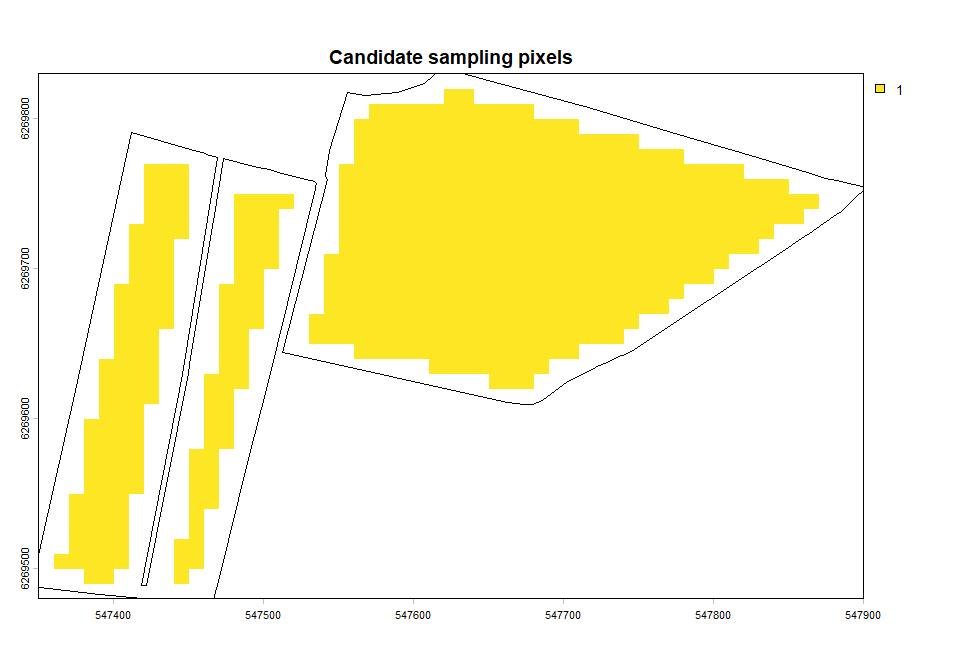
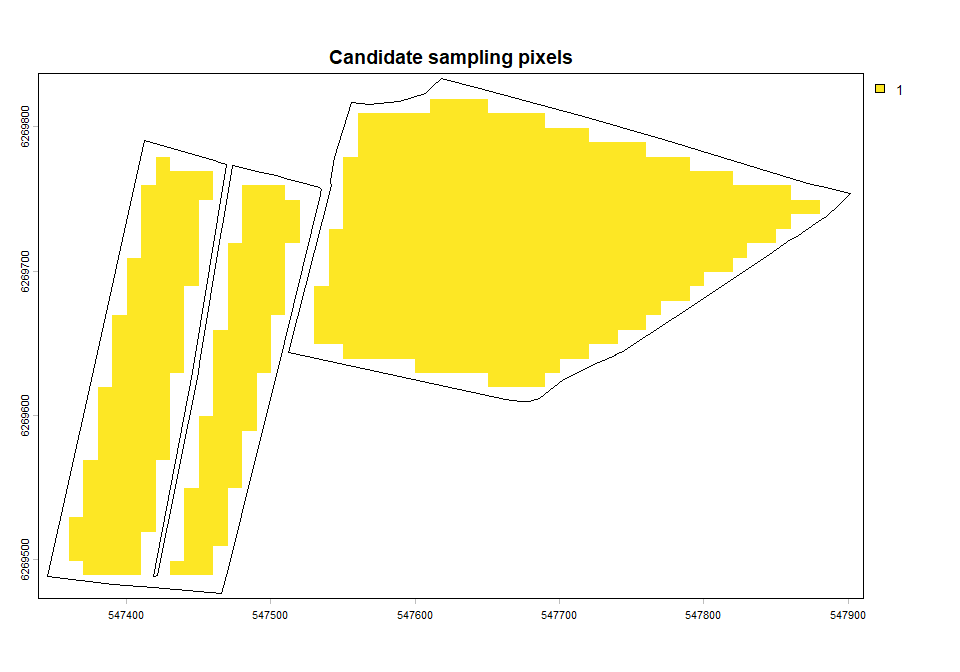
Refine Candidate Sampling Pixel Logic and Explanation

diff --git a/ranked_samples_workflow.md b/ranked_samples_workflow.md
@@ -179,38 +179,49 @@ candidates_field <- ifel(
   NA,
   1
 ) |>
-  focal(w = 3, "mean") |>
   mask(
-    study_areas[study_area_idx, ] |> as.lines(),
-    inverse = TRUE
-  )
+    study_areas[study_area_idx, ] |>
+      buffer(width = -10),
+    touches = FALSE
+)
 
-plot(candidates_field, main = "Candidate sampling pixels")
+plot(
+  candidates_field, main = "Candidate sampling pixels",
+  extent = study_areas[study_area_idx, ],
+  buffer = TRUE
+)
 plot(study_areas[study_area_idx, ], add = TRUE)
 ```
 
 <img src="ranked_samples_workflow_files/figure-html/candidates-1.png" alt="" width="60%" style="display: block; margin: auto;" />
 
-The candidate mask avoids border effects and excludes unsuitable edge cells.
-
 ## 5. Primary Cluster Sampling
+
+The sampling zones and primary sampling locations are generated based on k-means clustering, using the package `samplekmeans`. The number of clusters is determined by the size of the study area, with one cluster per ha (rounded off).
+
+The parameter `xy_weight` is set to 2, which means that the spatial coordinates are weighted twice as much as the input raster values. This encourages clusters to be more spatially compact, while still considering the input raster values. The `candidates` parameter ensures that only valid sampling locations are selected, and the `min_cluster_size` parameter ensures that clusters with fewer than 50 pixels (i.e. areas less than 0.5 ha) are not produced.
 
 
 ``` r
 myclusters <- sample_kmeans(
   input = sampling_input_pctile,
-  clusters = round(study_areas[study_area_idx, ]$Shape_Area / 10000),
+  clusters = round(
+    study_areas[study_area_idx, ]$Shape_Area * sampling_zones_ha / 10000
+  ),
   use_xy = TRUE,
   sp_pts = TRUE,
   xy_weight = 2,
   candidates = candidates_field,
-  min_cluster_size = 50
+  min_cluster_size = 50,
+  seed = 5082
 )
 
 plot(
   as.factor(myclusters$clusters),
   col = carto_pal(9, "Bold"),
-  main = "Primary clusters"
+  main = "Primary clusters",
+  extent = study_areas[study_area_idx, ],
+  buffer = TRUE
 )
 plot(myclusters$points, pch = 21, bg = "white", add = TRUE)
 plot(study_areas[study_area_idx, ], add = TRUE)